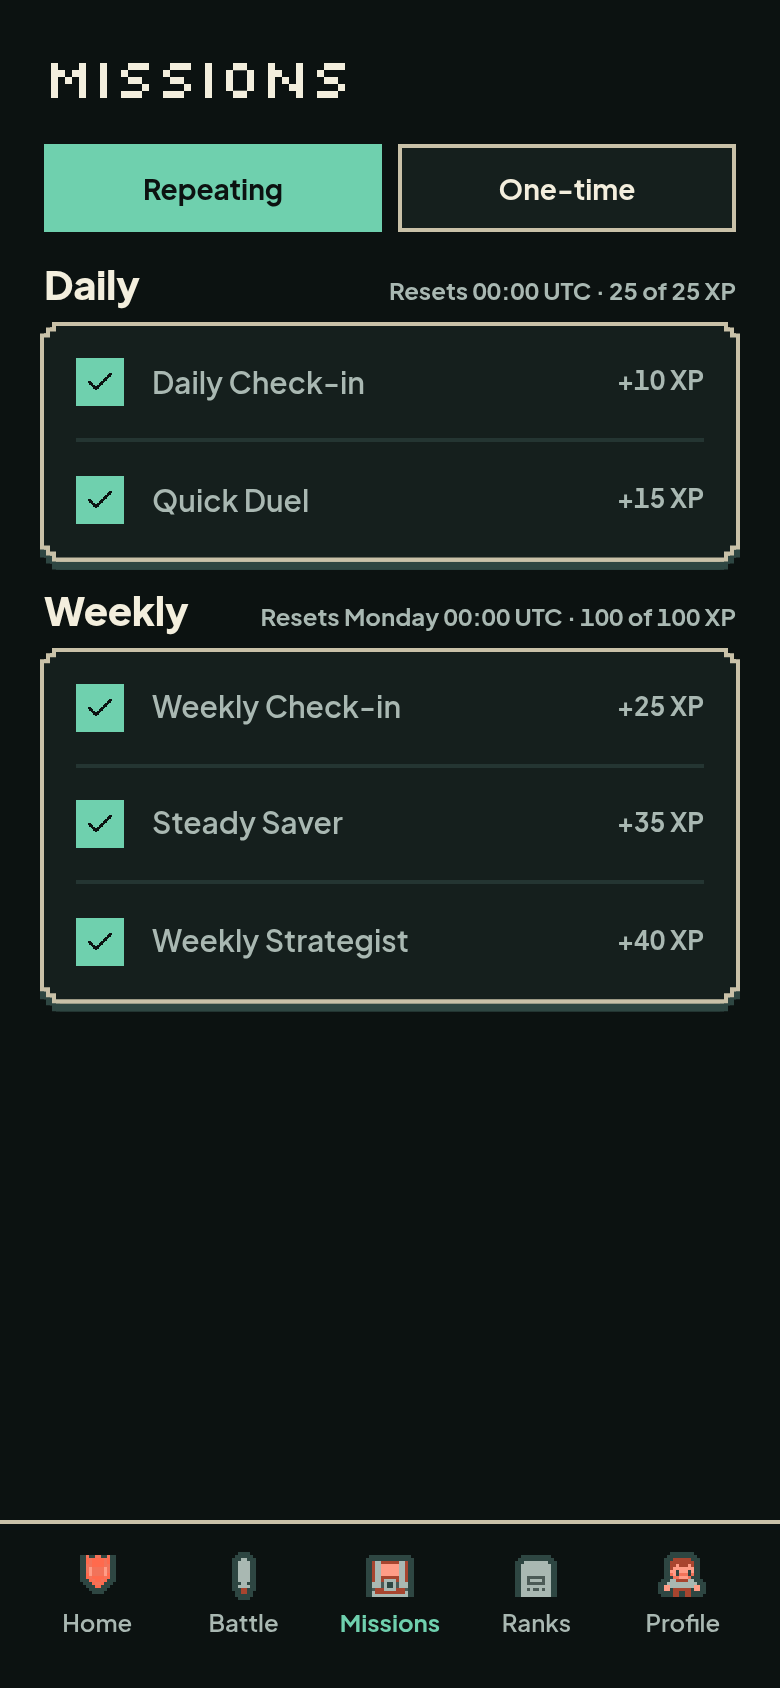
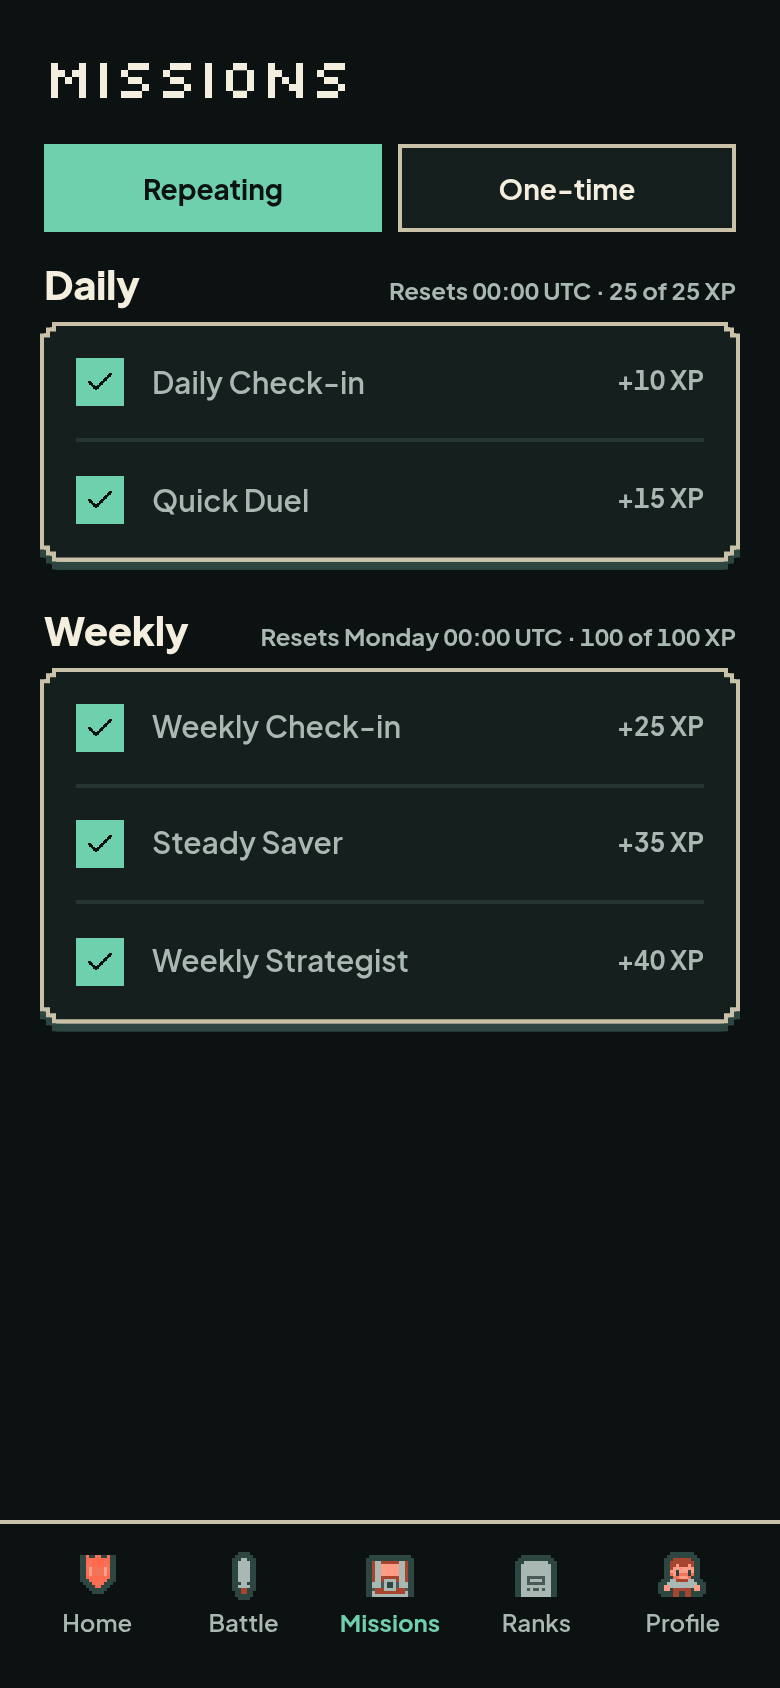
fix: widen the gap between mission groups

Changed region(s): [[0.0308, 0.3389, 0.9538, 0.6161], [0.8, 0.4621, 0.8923, 0.5237]]

diff --git a/src/app/(tabs)/missions/page.tsx b/src/app/(tabs)/missions/page.tsx
@@ -10,7 +10,7 @@
 
 'use client'
 
-import { useEffect, useState } from 'react'
+import { useEffect, useState, type ReactNode } from 'react'
 import { useRouter } from 'next/navigation'
 import { authHeaders } from '@/lib/session'
 import { Glyph } from '@/components/Glyphs'
@@ -115,33 +115,43 @@ export default function MissionsPage() {
 
       {!loading && !error && missions && counters && (
         tab === 'repeating' ? (
-          <>
-            {daily.length > 0 && (
-              <Group
-                title="Daily"
-                reset="Resets 00:00 UTC"
-                missions={daily}
-                cap={counters.dailyXpCap}
-              />
-            )}
-            {weekly.length > 0 && (
-              <Group
-                title="Weekly"
-                reset="Resets Monday 00:00 UTC"
-                missions={weekly}
-                cap={counters.weeklyXpCap}
-              />
-            )}
-            {daily.length === 0 && weekly.length === 0 && <EmptyPanel tone="repeating" />}
-          </>
+          daily.length === 0 && weekly.length === 0 ? (
+            <EmptyPanel tone="repeating" />
+          ) : (
+            <GroupList>
+              {daily.length > 0 && (
+                <Group
+                  title="Daily"
+                  reset="Resets 00:00 UTC"
+                  missions={daily}
+                  cap={counters.dailyXpCap}
+                />
+              )}
+              {weekly.length > 0 && (
+                <Group
+                  title="Weekly"
+                  reset="Resets Monday 00:00 UTC"
+                  missions={weekly}
+                  cap={counters.weeklyXpCap}
+                />
+              )}
+            </GroupList>
+          )
         ) : oneTime.length > 0 ? (
-          <Group title="One-time" reset="Never expires" missions={oneTime} />
+          <GroupList>
+            <Group title="One-time" reset="Never expires" missions={oneTime} />
+          </GroupList>
         ) : (
           <EmptyPanel tone="onetime" />
         )
       )}
     </ScreenShell>
   )
+}
+
+/** 36px between groups; the shell keeps 14px from the tabs to the first group. */
+function GroupList({ children }: { children: ReactNode }) {
+  return <div className="flex flex-col gap-9">{children}</div>
 }
 
 function Group({

diff --git a/src/lib/missions-ui.test.ts b/src/lib/missions-ui.test.ts
@@ -71,6 +71,12 @@ test('the row type fits the handoff and clears the divider', () => {
   assert.match(PAGE, /flex flex-col gap-0\.5 py-2/)
 })
 
+test('groups keep the shell rhythm and use a wider group gap', () => {
+  assert.match(PAGE, /function GroupList/)
+  assert.match(PAGE, /flex flex-col gap-9/)
+  assert.match(PAGE, /bodyClassName="gap-3\.5"/)
+})
+
 test('the page keeps the states and drops the cap cards', () => {
   assert.match(PAGE, /Couldn't load missions\./)
   assert.match(PAGE, /Try again/)

diff --git a/docs/superpowers/audits/2026-11-05-ui-gap-audit.md b/docs/superpowers/audits/2026-11-05-ui-gap-audit.md
@@ -1157,6 +1157,9 @@ period XP counter. The cap cards are gone.
   with `Resets Monday 00:00 UTC · 25 of 100 XP`, `One-time` with
   `Never expires`. Titles are 20px default text; captions are the new 12px
   `.sv-caption` role.
+- **Group rhythm:** the groups sit in a 24px-gap list, so the Daily panel and
+  the Weekly header have 24px between them. The tabs keep 14px to the first
+  group and a header keeps 8px to its own panel.
 - **Rows:** one grouped `PixelPanel` per group; 24px box (mint fill + ground
   check when done, mint outline when open), a 15px/1.35 title, a 12px/500/1.35
   description on open rows only, and `+N XP` in mint on open rows or muted on
@@ -1180,7 +1183,7 @@ period XP counter. The cap cards are gone.
 
 | Check | Result |
 |---|---|
-| `npm test` | 381 pass, 0 fail (370 before the batch) |
+| `npm test` | 382 pass, 0 fail (370 before the batch) |
 | `npx tsc --noEmit` | clean |
 | `npm run lint` | exit 0, 50 warnings, 0 errors |
 | `npm run build` | exit 0; `/missions` compiles |
@@ -1191,6 +1194,8 @@ period XP counter. The cap cards are gone.
 
 - Both tabs and both group captions fit on one line: the Weekly caption is
   231px inside a 324px body, so the handoff copy stays intact.
+- The 24px group gap moves the Weekly header down 10px; both groups still fit
+  above the nav at 360.
 - `Steady Saver`'s description wraps to two lines at 360 and 390; the row grows
   to about 71px with 8px of clearance under the last line. Nothing is clipped
   or truncated.
@@ -1207,6 +1212,11 @@ period XP counter. The cap cards are gone.
   and a visually hidden `(completed)`, not by colour alone.
 - **Descriptions on open rows only.** Done rows are scannable at 58px, matching
   the handoff; the explanation is only needed before the mission is earned.
+- **24px between groups.** The first render read the Daily panel and the Weekly
+  header as one block because the 14px shell gap and the panel's 4px hard shadow
+  left about 10px of air. The groups now sit in a 24px-gap list; the tabs keep
+  the 14px shell rhythm and a header keeps 8px to its own panel, so each title
+  stays bound to its rows.
 - **Row type pass.** The first renders showed two-line descriptions ending on
   the divider. The title dropped from 16px to the handoff's 15px and the body
   gained 8px vertical padding. The description is already at the 12px floor, so

diff --git a/docs/superpowers/specs/2026-11-09-missions-ui-design.md b/docs/superpowers/specs/2026-11-09-missions-ui-design.md
@@ -118,6 +118,9 @@ One-time                              Never expires
 ### 4.1 Group header
 
 - `<section aria-label={title}>`, `flex flex-col gap-2`.
+- Groups sit in a `GroupList` (`flex flex-col gap-9`): 36px between groups.
+  The shell body keeps 14px from the tabs to the first group, and the group
+  itself keeps 8px from its header to its panel.
 - Header row: `flex flex-wrap items-baseline justify-between gap-x-2 gap-y-1`.
 - Title: `<h2 className="sv-subheading">` (20px, default text colour).
 - Caption: `.sv-caption font-bold text-fg-muted` with tabular numerals where a

diff --git a/docs/superpowers/renders/missions/review/NOTES.md b/docs/superpowers/renders/missions/review/NOTES.md
@@ -60,6 +60,8 @@ Corrections:
   description. The body column carries 8px vertical padding, so a two-line
   description row grows to about 71px and its last line clears the divider by
   8px. Done and one-line rows stay 58px.
+- Groups are separated by 24px (Daily panel to Weekly header). The tabs keep
+  14px to the first group, and a header keeps 8px to its own panel.
 - Done rows are exactly 58px with no description. Open rows grow when the
   description wraps (`Balance held or grew at every check-in this week` is two
   lines at 360/390); nothing is clipped.
